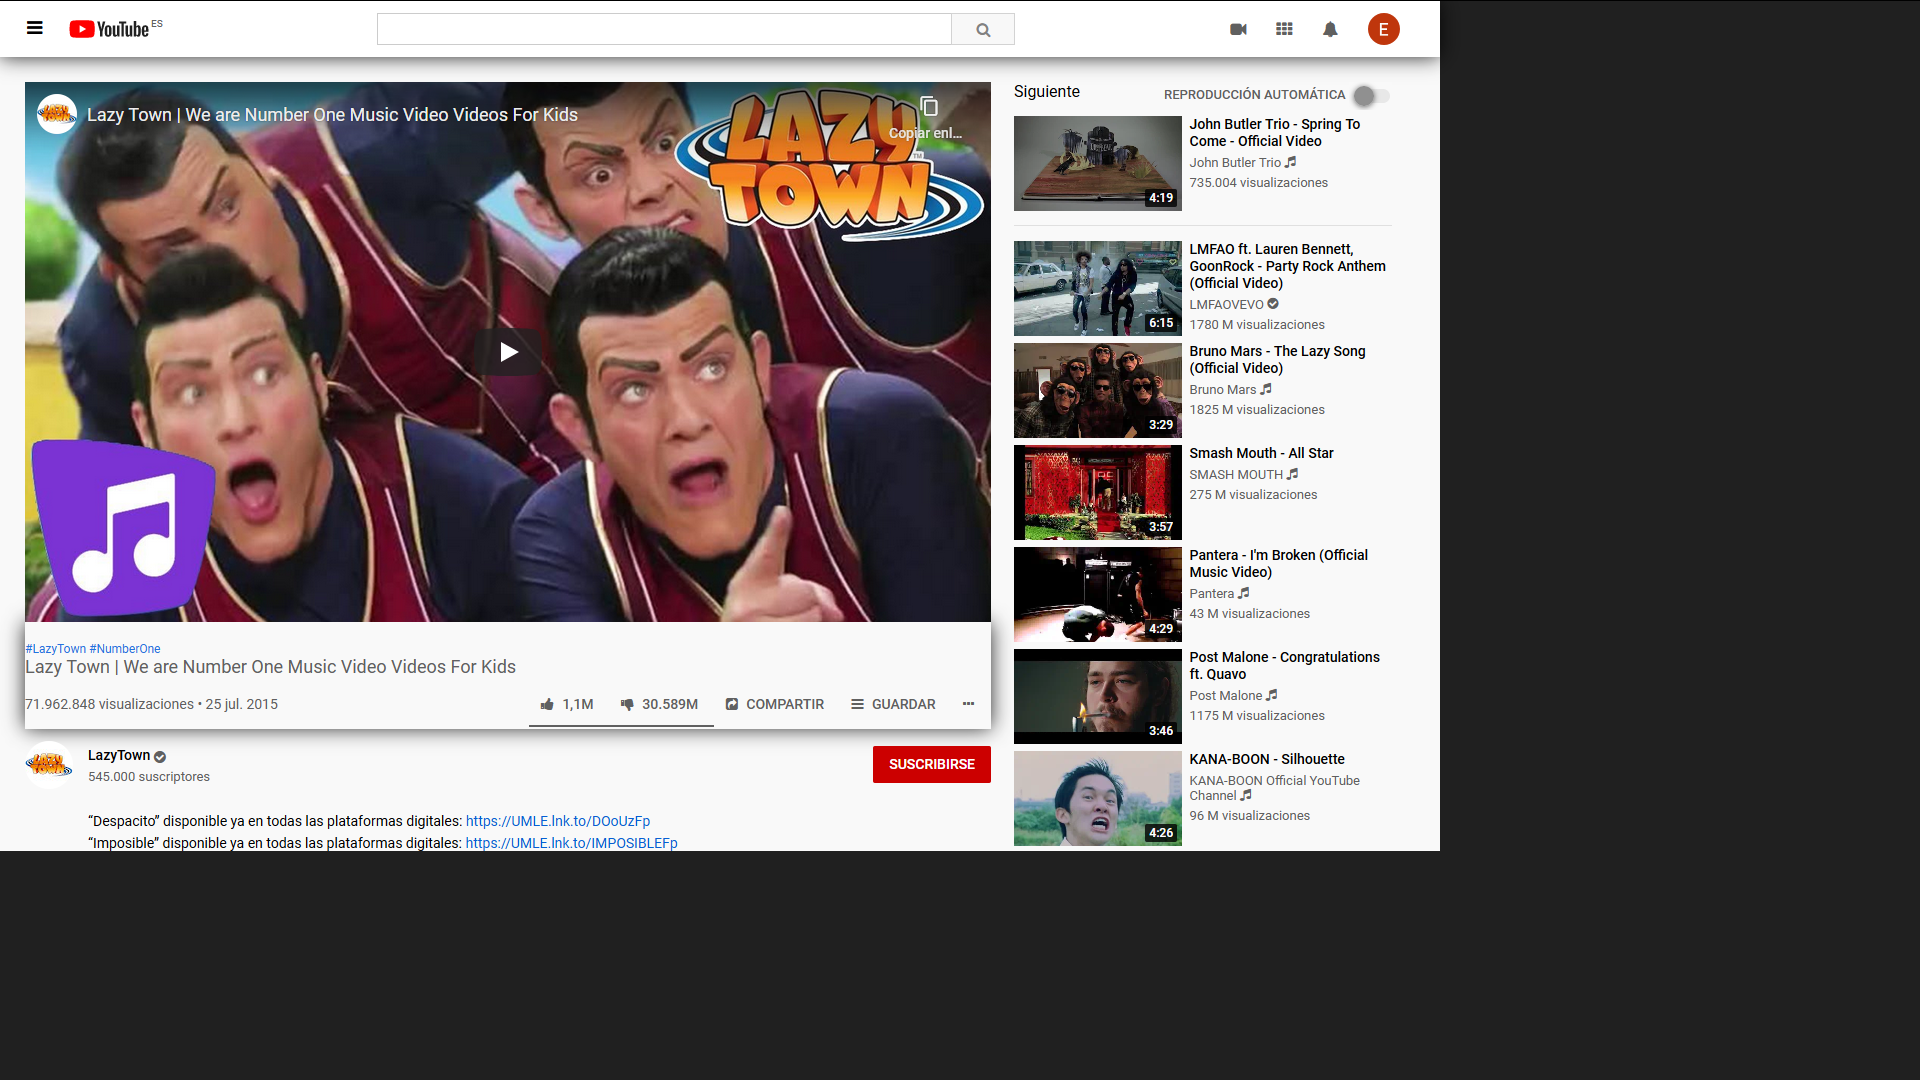
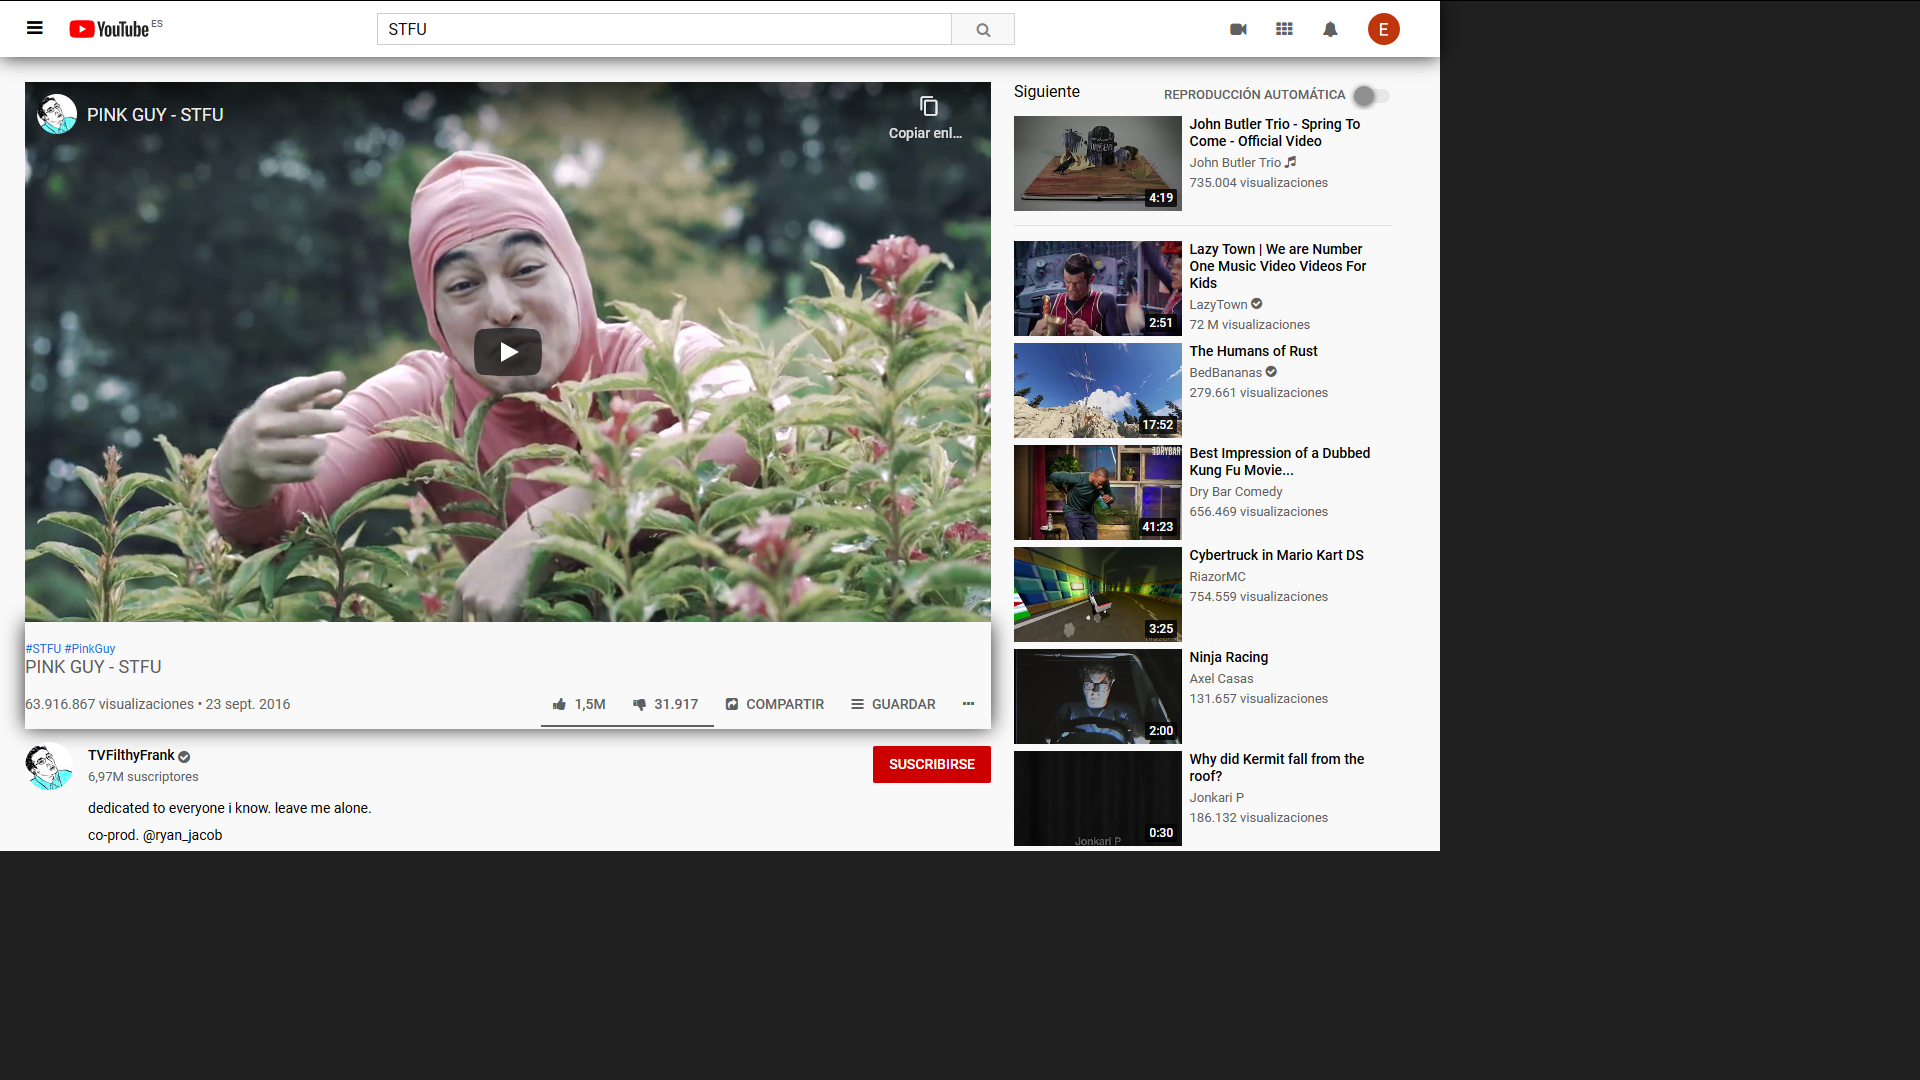
Se han cambiado los videos recomendados del ejercicio de YouTube, además, se han añadidos varias funcionalidades para hacerlo más "realista". Primera versión del ejercicio de Minecraft.

diff --git a/public_html/ejercicios/YouTube/index.html b/public_html/ejercicios/YouTube/index.html
@@ -12,9 +12,9 @@
         <nav id="barraBusqueda">
             <div id="contenedorMenu">
                 <p><i class="fa fa-bars" aria-hidden="true"></i></p>
-            </div><div id="contenedorLogo"><img id="logo" src="img/logo.png" alt="">
+            </div><div id="contenedorLogo"><a href="https://www.youtube.com"><img id="logo" src="img/logo.png" alt=""></a>
             </div><form action="get">
-                <input id="busqueda" type="text"><i id="iconoBusqueda" class="fa fa-search" aria-hidden="true"></i>
+                <input id="busqueda" type="text" placeholder="Buscar" value="STFU"><i id="iconoBusqueda" class="fa fa-search" aria-hidden="true"></i>
             </form>
             <div id="iconos">
                 <i class="fa fa-video-camera" aria-hidden="true">
@@ -26,14 +26,14 @@
 
         <div id="contenido">
             <div id="video">
-                <iframe id="iframeVideo" width="560" height="315" src="https://www.youtube-nocookie.com/embed/PfYnvDL0Qcw" frameborder="0" allow="accelerometer; autoplay; encrypted-media; gyroscope; picture-in-picture" allowfullscreen></iframe>
+                <iframe name="iframeVideo" id="iframeVideo" width="560" height="315" src="https://www.youtube-nocookie.com/embed/OLpeX4RRo28" frameborder="0" allow="accelerometer; autoplay; encrypted-media; gyroscope; picture-in-picture" allowfullscreen></iframe>
                 <div id="infoVideo">
-                    <p id="tags">#LazyTown #NumberOne</p>
-                    <p id="tituloVideo">Lazy Town | We are Number One Music Video Videos For Kids</p>
-                    <span id="visualizaciones">71.962.848 visualizaciones • 25 jul. 2015</span>
+                    <p id="tags">#STFU #PinkGuy</p>
+                    <p id="tituloVideo">PINK GUY - STFU</p>
+                    <span id="visualizaciones">63.916.867 visualizaciones • 23 sept. 2016</span>
                     <div id="botonesVideo">
-                        <span class="botonLikeDislike botonVideo"><i class="fa fa-thumbs-up" aria-hidden="true"></i> 1,1M
-                        </span><span class="botonLikeDislike botonVideo"><i class="fa fa-thumbs-down" aria-hidden="true"></i> 30.589M
+                        <span class="botonLikeDislike botonVideo"><i class="fa fa-thumbs-up" aria-hidden="true"></i> 1,5M
+                        </span><span class="botonLikeDislike botonVideo"><i class="fa fa-thumbs-down" aria-hidden="true"></i> 31.917
                         </span><span class="botonVideo"><i class="fa fa-share-square" aria-hidden="true"></i> COMPARTIR
                         </span><span class="botonVideo"><i class="fa fa-bars" aria-hidden="true"></i> GUARDAR
                         </span><span class="botonVideo"><i class="fa fa-ellipsis-h" aria-hidden="true"></i></span>
@@ -42,19 +42,20 @@
                 <div id="descripcion">
                     <div id="cuenta">
                         <div id="usuario">
-                            <img id="fotoPerfil" src="img/foto.jpg" alt="Fonsi"><!--
+                            <a href="https://www.youtube.com/user/TVFilthyFrank">
+                            <img id="fotoPerfil" src="img/foto.jpg" alt="Fonsi"></a><!--
                             --><p id="nombreYSuscriptores">
-                                <span id="nombreUsuario">LazyTown <i class="iconoYT fa fa-check-circle" aria-hidden="true"></i></span><br>
-                                <span id="suscriptores">545.000 suscriptores</span>
+                                <a href="https://www.youtube.com/user/TVFilthyFrank" id="nombreUsuario">TVFilthyFrank <i class="iconoYT fa fa-check-circle" aria-hidden="true"></i></a><br>
+                                <span id="suscriptores">6,97M suscriptores</span>
                             </p>
                         </div><div id="contenedorSuscribirse">
-                            <a id="suscribirse" href="">SUSCRIBIRSE</a>                           
+                            <a id="suscribirse" href="https://www.youtube.com/user/TVFilthyFrank">SUSCRIBIRSE</a>                           
                         </div>
                         
                     </div>
                     <div id="textoDescripcion">
-                        <p>“Despacito” disponible ya en todas las plataformas digitales: <a href="https://UMLE.lnk.to/DOoUzFp">https://UMLE.lnk.to/DOoUzFp</a> </p>
-                        <p>“Imposible” disponible ya en todas las plataformas digitales: <a href="https://UMLE.lnk.to/IMPOSIBLEFp">https://UMLE.lnk.to/IMPOSIBLEFp</a></p>
+                        <p>dedicated to everyone i know. leave me alone.</p>
+                        <p>co-prod. @ryan_jacob</p>
                     </div>
                 </div>
             </div><div id="sugeridos">
@@ -66,7 +67,7 @@
                     </div>
                 </div>
                 
-                <div class="sugerencia" id="primeraRecomendacion">
+                <a href="https://www.youtube-nocookie.com/embed/TkAwkxaFROM" target="iframeVideo" class="sugerencia" id="primeraRecomendacion">
                     <div class="contenedorFotoVideo">
                         <img class="fotoVideo" src="img/spring_to_come.webp" alt="">
                         <span class="etiquetaLongitud">4:19</span>
@@ -75,80 +76,73 @@
                         <p class="canal">John Butler Trio <i class="fa fa-music" aria-hidden="true"></i></p>
                         <p class="visualizaciones">735.004 visualizaciones</p>
                     </div>
-                </div>
-
-                <div class="sugerencia">
+                </a>
+                
+                <a href="https://www.youtube-nocookie.com/embed/PfYnvDL0Qcw" target="iframeVideo" class="sugerencia" >
                     <div class="contenedorFotoVideo">
-                        <img class="fotoVideo" src="img/lmfao.webp" alt="">
-                        <span class="etiquetaLongitud">6:15</span>
+                        <img class="fotoVideo" src="img/we_are_number_one.webp" alt="">
+                        <span class="etiquetaLongitud">2:51</span>
                     </div><div class="bloqueTexto">
-                        <p class="tituloVideo">LMFAO ft. Lauren Bennett, GoonRock - Party Rock Anthem (Official Video)</p>
-                        <p class="canal">LMFAOVEVO <i class="fa fa-check-circle" aria-hidden="true"></i></p>
-                        <p class="visualizaciones">1780 M visualizaciones</p>
+                        <p class="tituloVideo">Lazy Town | We are Number One Music Video Videos For Kids</p>
+                        <p class="canal">LazyTown <i class="fa fa-check-circle" aria-hidden="true"></i></p>
+                        <p class="visualizaciones">72 M visualizaciones</p>
                     </div>
-                </div>
+                </a>
 
-                <div class="sugerencia">
+                <a href="https://www.youtube-nocookie.com/embed/LIa1Dp52ZIg" target="iframeVideo" class="sugerencia">
                     <div class="contenedorFotoVideo">
-                        <img class="fotoVideo" src="img/lazy_song.webp" alt="">
-                        <span class="etiquetaLongitud">3:29</span>
+                        <img class="fotoVideo" src="img/the_humans_of_rust.webp" alt="">
+                        <span class="etiquetaLongitud">17:52</span>
                     </div><div class="bloqueTexto">
-                        <p class="tituloVideo">Bruno Mars - The Lazy Song (Official Video)</p>
-                        <p class="canal">Bruno Mars <i class="fa fa-music" aria-hidden="true"></i></p>
-                        <p class="visualizaciones">1825 M visualizaciones</p>
+                        <p class="tituloVideo">The Humans of Rust</p>
+                        <p class="canal">BedBananas <i class="fa fa-check-circle" aria-hidden="true"></i></p>
+                        <p class="visualizaciones">279.661 visualizaciones</p>
                     </div>
-                </div>
+                </a>
 
-                <div class="sugerencia">
+                <a href="https://www.youtube-nocookie.com/embed/bdLXT__mecU" target="iframeVideo" class="sugerencia" >
                     <div class="contenedorFotoVideo">
-                            <img class="fotoVideo" src="img/all_stars.webp" alt="">
-                        <span class="etiquetaLongitud">3:57</span>
+                            <img class="fotoVideo" src="img/dry_bar.webp" alt="">
+                        <span class="etiquetaLongitud">41:23</span>
                     </div><div class="bloqueTexto">
-                        <p class="tituloVideo">Smash Mouth - All Star</p>
-                        <p class="canal">SMASH MOUTH <i class="fa fa-music" aria-hidden="true"></i></p>
-                        <p class="visualizaciones">275 M visualizaciones</p>
+                        <p class="tituloVideo">Best Impression of a Dubbed Kung Fu Movie...</p>
+                        <p class="canal">Dry Bar Comedy</i></p>
+                        <p class="visualizaciones">656.469 visualizaciones</p>
                     </div>
-                </div>
+                </a>
 
-                <div class="sugerencia">
+                <a href="https://www.youtube-nocookie.com/embed/K0Wz14OZtY0" target="iframeVideo" class="sugerencia" >
                     <div class="contenedorFotoVideo">
-                        <img class="fotoVideo" src="img/im_broken.webp" alt="">
-                        <span class="etiquetaLongitud">4:29</span>
+                        <img class="fotoVideo" src="img/cyber_truck.webp" alt="">
+                        <span class="etiquetaLongitud">3:25</span>
                     </div><div class="bloqueTexto">
-                        <p class="tituloVideo">Pantera - I'm Broken (Official Music Video)</p>
-                        <p class="canal">Pantera <i class="fa fa-music" aria-hidden="true"></i></p>
-                        <p class="visualizaciones">43 M visualizaciones</p>
+                        <p class="tituloVideo">Cybertruck in Mario Kart DS</p>
+                        <p class="canal">RiazorMC</i></p>
+                        <p class="visualizaciones">754.559 visualizaciones</p>
                     </div>
-                </div>
+                </a>
 
-                <div class="sugerencia">
+                <a href="https://www.youtube-nocookie.com/embed/C5FJaF6Aa1Y" target="iframeVideo" class="sugerencia" >
                     <div class="contenedorFotoVideo">
-                        <img class="fotoVideo" src="img/congratulations.webp" alt="">
-                        <span class="etiquetaLongitud">3:46</span>
+                        <img class="fotoVideo" src="img/ninja_racing.webp" alt="">
+                        <span class="etiquetaLongitud">2:00</span>
                     </div><div class="bloqueTexto">
-                        <p class="tituloVideo">Post Malone - Congratulations ft. Quavo</p>
-                        <p class="canal">Post Malone <i class="fa fa-music" aria-hidden="true"></i></p>
-                        <p class="visualizaciones">1175 M visualizaciones</p>
+                        <p class="tituloVideo">Ninja Racing</p>
+                        <p class="canal">Axel Casas</p>
+                        <p class="visualizaciones">131.657 visualizaciones</p>
                     </div>
-                </div>
-                
-                
-                
+                </a>
 
-                <div class="sugerencia">
+                <a href="https://www.youtube-nocookie.com/embed/3E4xAlzt8m8" target="iframeVideo" class="sugerencia" >
                     <div class="contenedorFotoVideo">
-                        <img class="fotoVideo" src="img/silhouette.webp" alt="">
-                        <span class="etiquetaLongitud">4:26</span>
+                        <img class="fotoVideo" src="img/kermit.webp" alt="">
+                        <span class="etiquetaLongitud">0:30</span>
                     </div><div class="bloqueTexto">
-                        <p class="tituloVideo"> KANA-BOON - Silhouette</p>
-                        <p class="canal">KANA-BOON Official YouTube Channel <i class="fa fa-music" aria-hidden="true"></i></p>
-                        <p class="visualizaciones">96 M visualizaciones</p>
+                        <p class="tituloVideo">Why did Kermit fall from the roof?</p>
+                        <p class="canal">Jonkari P</i></p>
+                        <p class="visualizaciones">186.132 visualizaciones</p>
                     </div>
-                </div>
-                
-                
-                
-                
+                </a>
                 
             </div>
 

diff --git a/public_html/ejercicios/Minecraft/css.css b/public_html/ejercicios/Minecraft/css.css
@@ -1,0 +1,67 @@
+body{
+    font-family: "mc";
+    background-image: url("img/fondo.png");
+    background-blend-mode: multiply;
+    background-repeat: no-repeat;
+    background-color: rgba(0, 0, 0, 0.6);
+    margin: 0;
+    width: 1273px;
+    height: 677px;
+}
+#contenido{
+    height: 100%;
+    width: 100%;
+}
+#titulo{
+    color: white;
+    text-align: center;
+    font-size: 30px;
+    margin-bottom: 104px;
+}
+#menu{
+    width: 600px;
+    position: relative;
+    left: 336.5px;
+}
+#menu div{
+    color: white;
+    text-shadow: 1px 2px #4e4e4e;
+    border: 2px solid black;
+    margin-bottom: 5px;
+    text-align: center;
+    height: 47px;
+    background: url("img/btn.PNG");
+    background-size: 100% 100%;
+    vertical-align: middle;
+    image-rendering: crisp-edges;
+    user-select: none;
+    font-size: 25px;
+}
+#menu div:hover{
+    /* background-image: url("img/btn_azul.PNG"); */
+    cursor: pointer;
+    color: #e5ecaa;
+    border-color: white;
+}
+#menu div p{
+    margin-top: 9px;
+}
+#botonQ{
+    position: relative;
+    left: -20px;
+    display: inline-block;
+}
+
+.mitad{
+    width: 290px;
+    display: inline-block;
+}
+.mr{
+    margin-right: 12px;
+}
+
+
+@font-face {
+    font-family: mc;
+    src: url("mc.woff");
+}

diff --git a/public_html/ejercicios/Minecraft/index.html b/public_html/ejercicios/Minecraft/index.html
@@ -1,0 +1,37 @@
+<!DOCTYPE html>
+<html lang="es-es" dir="ltr">
+    <head>
+        <meta charset="utf-8">
+        <link rel="stylesheet" href="css.css">
+        <title></title>
+    </head>
+
+    <body>
+        <div id="contenido">
+            <p id="titulo">Menú del juego</p>
+            <div id="menu">
+                <div onclick="clickFX()"><p>Volver al juego</p></div>
+                <div onclick="clickFX()" class="mitad mr"><p>Progresos</p>
+                </div><div onclick="clickFX()" class="mitad"><p>Estadísticas</p></div>
+                <div onclick="clickFX()"><p>Abrir en LAN</p></div>
+            
+                    <div onclick="clickFX()" class="mitad mr"><p>Opciones...</p>
+                    </div><div class="mitad" onclick="clickFX()"><p>Opciones de mods...</p></div>
+            
+                
+            <div onclick="clickFX()"><p>Guardar y salir al menú principal</p></div>
+            </div>
+        </div>
+        
+        <audio src="click.ogg" type="audio/ogg" id="sonidoClick"></audio>
+    </body>
+
+</html>
+
+<script>
+    var clickSFX = document.getElementById("sonidoClick");
+    function clickFX(){
+        clickSFX.currentTime = 0;
+        clickSFX.play();
+    }
+</script>

diff --git a/public_html/ejercicios/YouTube/css.css b/public_html/ejercicios/YouTube/css.css
@@ -60,10 +60,17 @@ nav *{
     border: 1px solid #d3d3d3;
     background-color: #f8f8f8;
     font-size: 15px;
-    color: #818181;
+    color: rgba(51, 51, 51,0.6);
     padding: 7.5px  24px ;
     vertical-align: top;
     text-align: center;
+    cursor: pointer;
+}
+#iconoBusqueda:hover{
+    color: rgba(51, 51, 51,1);
+    background-color: #f0f0f0;
+    border-color: #c6c6c6;
+    box-shadow: 0 1px 0 rgba(0, 0, 0, 0.1);
 }
 #iconoBusqueda *{
     vertical-align: middle;
@@ -136,6 +143,7 @@ nav *{
 #nombreUsuario{
     font-size: 14px;
     font-weight: 500;
+    color: rgb(3, 3, 3);
 }
 #suscriptores{
     font-size: 13px;
@@ -167,13 +175,13 @@ nav *{
 }
 
 #textoDescripcion{
-    margin-top: 13px;
+    
     margin-left: 63px;
     font-size: 14px;
 }
 #textoDescripcion p{
     margin: 0;
-    margin-bottom: 5px;
+    margin-bottom: 10px;
 }
 
 #sugeridos{
@@ -200,6 +208,8 @@ nav *{
 .sugerencia{
     height: 94px;
     margin-bottom: 8px;
+    display: block;
+    color: black;
 }
 .sugerencia *{
     vertical-align: top;

diff --git a/public_html/ejercicios.html b/public_html/ejercicios.html
@@ -31,6 +31,8 @@
             </a>
             <a href="ejercicios/YouTube/index.html" id="veYT" class="vistaEjercicio">
             </a>
+            <a href="ejercicios/Minecraft/index.html" id="veMinecraft" class="vistaEjercicio">
+            </a>
         </div>
         <h2 class="tituloEjercicios">Exámenes</h2>
         <div class="contenidoEjemplos">

diff --git a/public_html/css/css.css b/public_html/css/css.css
@@ -764,6 +764,10 @@ iframe[name="footer"] {
     background-image: url("../img/pvYT.png");
 }
 
+#veMinecraft {
+    background-image: url("../img/pvMinecraft.png");
+}
+
 
 
 
